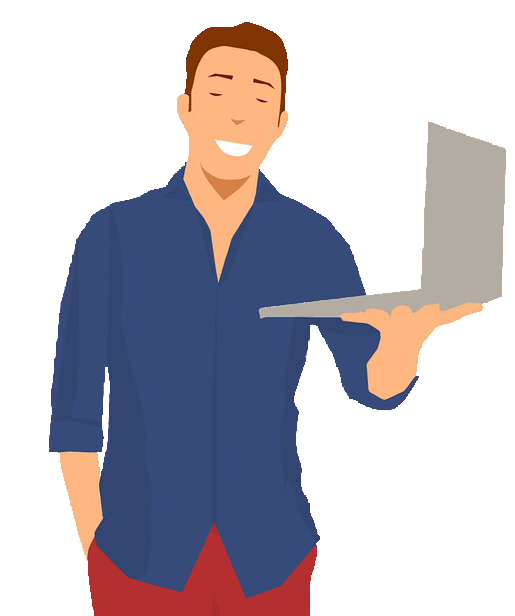
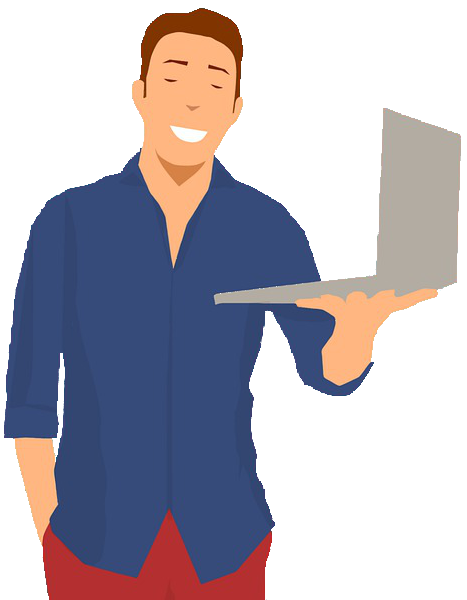
redid about section

Changed region(s): [[0.0, 0.0, 0.9893, 1.0], [0.6296, 0.36, 0.6595, 0.39], [0.5996, 0.33, 0.6296, 0.36]]

diff --git a/src/static/data/about_me.jsx b/src/static/data/about_me.jsx
@@ -2,24 +2,39 @@ export const aboutMe = <>
                             <p>
                                 I am a tenacious software developer who doesn't 
                                 put down a problem until I find the best possible 
-                                solution.  In my past life as a YMCA Program Director,
-                                I utilized my leadership skills, project management,
-                                and attention to detail to more than double the Y's 
-                                program offerings and participation, further growing
-                                those leadership skills during my two 
-                                periods as Interim CEO.  When I decided it was time
-                                for a new challenge, I opted to transition my 
-                                software programming hobby into a career, giving 
-                                me a greater opportunity to use my creativity and 
-                                problem solving skills to build and improve programs 
-                                that can be used by people for a long time to come.
+                                solution. In my past life as a YMCA Program Director, 
+                                I utilized my leadership skills, project management 
+                                skills, and attention to detail to more than double 
+                                the Y's program offerings and participation. This 
+                                opportunity also allowed me to further grow my 
+                                leadership skills during two periods as Interim 
+                                CEO. Eventually, I decided it was time for a new 
+                                challenge, so I reflected on my interests to 
+                                determine where I wanted to steer the ship on the 
+                                journey that is my life.  
+                            </p>
+                            <p>
+                                I have always enjoyed working with computers and 
+                                technology and jumped on any opportunity to help 
+                                friends put together websites.  It was fun but also 
+                                gave me a feeling of accomplishment. The opportunity 
+                                to build something and satisfy my curiosity about web 
+                                development was irresistible! 
+                            </p>
+                            <p>
+                                When the time came to explore new career options, 
+                                I decided to try an online intro to JavaScript 
+                                course and was instantly hooked.  Shortly afterward 
+                                I enrolled in Springboard's full stack software 
+                                engineering bootcamp, and by the end of that curriculum, 
+                                I knew that this is what I was meant to be doing all along.
                             </p>
                             <p>
                                 When I'm not coding, you can usually find me on my
-                                boat as long as weather permits.  Other hobbies
-                                include lifting weights and playing video games,
-                                particularly in the strategy, open world, and RPG 
-                                genres.
+                                boat as long as the weather permits (see projects: Boatey).  
+                                Other hobbies include lifting weights and playing video games,
+                                particularly in the strategy, open world, and RPG genres
+                                (see projects: Gamey).
                             </p>
                         </>
 

diff --git a/src/static/styles/about.css b/src/static/styles/about.css
@@ -1,12 +1,19 @@
-.aboutMe {
+.about {
     width: 80%;
     margin: auto;
+    display: flex;
+    flex-direction: column;
 }
 
-.aboutMe h3 {
-    font-size: 2em;
+.about h3 {
+    font-size: 1.8em;
     font-weight: 600;
     margin-bottom: 0;
+}
+
+.aboutMe {
+    order: -1;
+    margin-top: -30px;
 }
 
 .mySkills ul {
@@ -29,47 +36,99 @@
 
 @media screen and (min-width: 1000px) {
     .about {
+        flex-direction: row;
+    }
+
+    .about h3 {
+        font-size: 2em;
+        font-weight: 600;
+        margin: 0;
+    }
+
+    .aboutLeftCol {
+        width: 50%;
         display: flex;
+        flex-direction: column;
+        align-items: start;
     }
 
     .aboutImageDiv {
-        margin: auto;
-        width: 50%;
+        margin: auto 0;
+        padding-bottom: 20px;;
     }
 
     #aboutImage {
         display: inline;
-        max-height: 450px;
-        margin: auto;
+        max-height: 400px;
     }
 
     .aboutMe {
         width: 40%;
         margin: 0 10%;
         text-align: left;
+        order: 1;
     }
 
     .mySkills {
-        margin: 30px 0 0;
+        max-width: 311px;
+        margin: auto 0;
         text-align: left;
     }
+}
 
-    .mySkills h3 {
-        margin-top: 5px;
+@media screen and (min-width: 1225px) {
+    .aboutLeftCol {
+        width: 50%;
+    }
+
+    #aboutImage {
+        max-height: 500px;
+    }
+
+    .mySkills {
+        max-width: 389px;
+    }
+}
+
+@media screen and (min-width: 1350px) {
+    .aboutLeftCol {
+        width: 60%;
+        margin-left: 5%;
+    }
+
+    #aboutImage {
+        max-height: 525px;
+    }
+
+    .aboutMe {
+        width: 40%;
+        margin: 0 10%;
+        text-align: left;
+        order: 1;
     }
 }
 
 @media screen and (min-width: 1500px) {
-    .aboutImageDiv {
-        width: 60%;
-    }
-
-    #aboutImage {
-        max-height: 600px;
+    .aboutLeftCol {
+        margin-left: 10%;
     }
 
     .aboutMe {
-        width: 35%;
-        margin: 0 15% 0 2%;
+        margin: 0 10% 0 15%;
+    }
+
+    .mySkills {
+        max-width: 409px;
+    }
+}
+
+@media screen and (min-width: 1650px) {
+    .aboutLeftCol {
+        width: 45%;
+    }
+
+    .aboutMe {
+        width: 25%;
+        margin: 0 20% 0 10%;
     }
 }

diff --git a/src/About.jsx b/src/About.jsx
@@ -10,14 +10,12 @@ function About() {
             <div id='about' className='pageAnchor'></div>
             <h2 className='sectionTitle'>About me</h2>
             <div className='about'>
-                <div className='aboutImageDiv'>
-                    <img id='aboutImage'
-                        src={tall_guy}
-                        alt='Man holding a laptop'/>
-                </div>
-                <div className='aboutMe'>
-                    <h3>Hi, I'm Brian</h3>
-                    {aboutMe}
+                <div className='aboutLeftCol'>
+                    <div className='aboutImageDiv'>
+                        <img id='aboutImage'
+                            src={tall_guy}
+                            alt='Man holding a laptop'/>
+                    </div>
                     <div className='mySkills'>
                         <h3>My Skills</h3>
                         <ul>
@@ -28,6 +26,10 @@ function About() {
                                 </li>)}
                         </ul>
                     </div>
+                </div>
+                <div className='aboutMe'>
+                    <h3>Hi, I'm Brian</h3>
+                    {aboutMe}
                 </div>
             </div>
         </>
